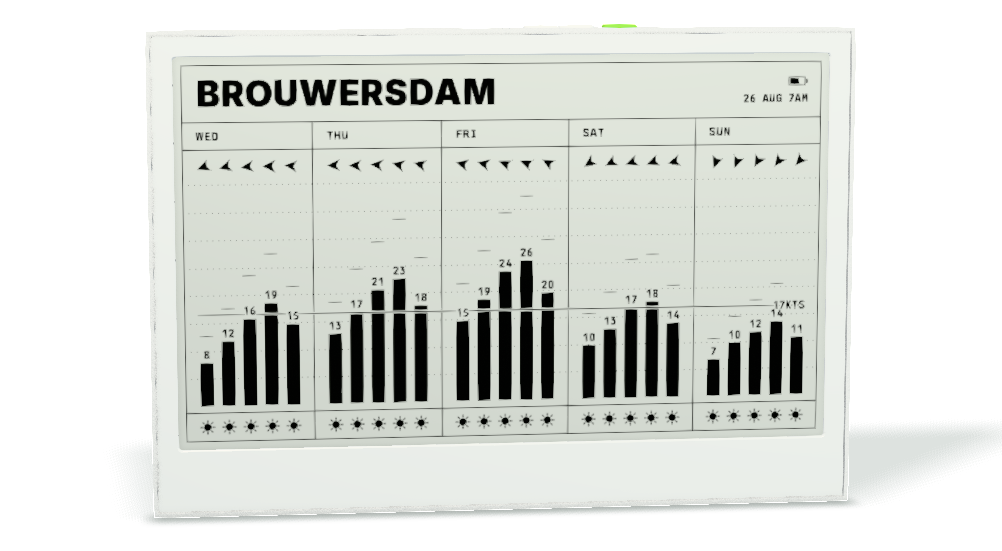
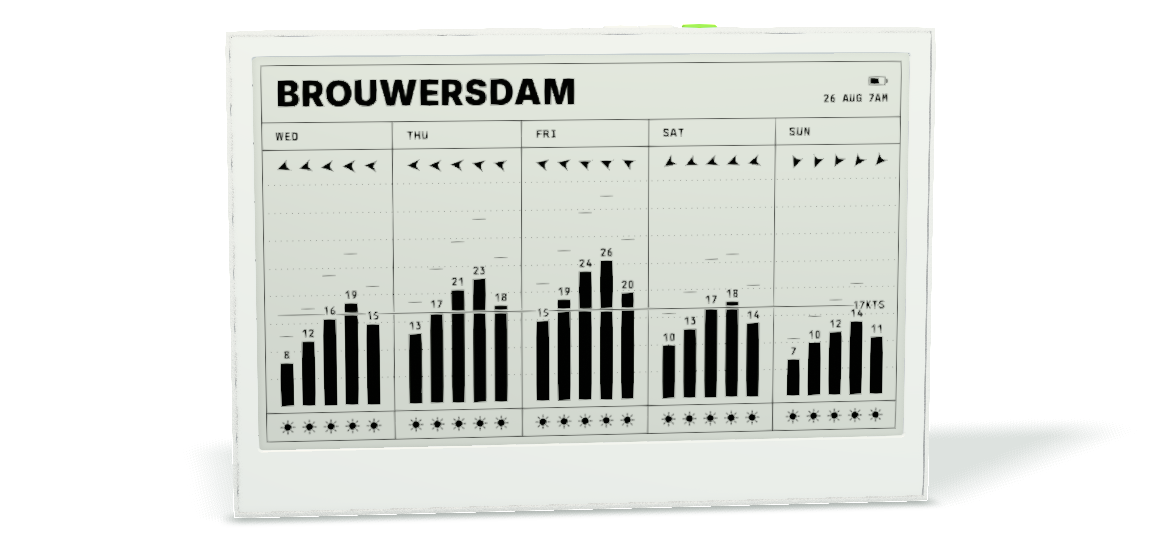
fix: harden E1001 installer safeguards (#6)
- reject known E1001/E1002 profile mismatches
- keep nested chooser dismissal from closing the installer
- strengthen firmware, crop, and installer regression coverage

diff --git a/web/tests/installer/installer-session.test.js b/web/tests/installer/installer-session.test.js
@@ -185,7 +185,9 @@ describe('installer session', () => {
 
     await session.connect()
 
-    const staged = protocol.request.mock.calls.find(([command]) => command === 'stage_configuration')[1]
+    const stagedCall = protocol.request.mock.calls.find(([command]) => command === 'stage_configuration')
+    expect(stagedCall).toBeDefined()
+    const staged = stagedCall[1]
     expect(staged.configuration.boardId).toBe(BOARD_IDS.E1002)
     expect(staged.configuration.digest).not.toBe(selectedConfiguration.digest)
     expect(session.getState().phase).toBe('complete')
@@ -202,6 +204,22 @@ describe('installer session', () => {
     await session.connect()
 
     expect(session.getState().phase).toBe('confirm-device')
+  })
+
+  it('blocks a known universal hardware profile that differs from the selected model', async () => {
+    const session = createInstallerSession({
+      configuration: e1001Configuration(),
+      requestPort: async () => ({}),
+      releaseLoader: async () => release,
+      protocolFactory: () => appProtocol({ hardwareModel: 'e1002' }),
+    })
+
+    await session.connect()
+
+    expect(session.getState()).toMatchObject({
+      phase: 'error',
+      error: { code: INSTALLER_ERROR_CODES.INCOMPATIBLE_DEVICE },
+    })
   })
 
   it('blocks an E1002 when the E1003 installer route is selected', async () => {

diff --git a/web/src/installer/createInstallerSession.js b/web/src/installer/createInstallerSession.js
@@ -319,13 +319,17 @@ export function createInstallerSession({
         await waitFor(SAVED_WIFI_CONNECT_RETRY_MS)
         current = await candidate.request('get_state')
       }
+      const usesHardwareProfile = hello.capabilities.includes('hardware-profile')
+      const reportedHardwareModel = usesHardwareProfile
+        ? ({ e1001: BOARD_IDS.E1001, e1002: BOARD_IDS.E1002 }[hello.hardwareModel])
+        : undefined
       return {
         protocol: candidate,
         device: {
           kind: 'windscout',
-          verifiedBoard: (hello.capabilities.includes('hardware-profile')
-            ? ({ e1001: BOARD_IDS.E1001, e1002: BOARD_IDS.E1002 }[hello.hardwareModel])
-            : hello.boardId) === expectedHardwareModel,
+          verifiedBoard: (usesHardwareProfile ? reportedHardwareModel : hello.boardId) === expectedHardwareModel,
+          hardwareModelMismatch: usesHardwareProfile && reportedHardwareModel !== undefined &&
+            reportedHardwareModel !== expectedHardwareModel,
           boardId: hello.boardId,
           hardwareModel: hello.hardwareModel,
           hardwareProfileRevision: hello.hardwareProfileRevision,

diff --git a/web/tests/installer/local-installer-build.test.js b/web/tests/installer/local-installer-build.test.js
@@ -96,11 +96,19 @@ describe('local installer firmware build', () => {
 
   it('ignores a model-specific build that cannot install E1001', () => {
     const { root, firmware } = fixture()
+    const sourceTime = new Date('2026-08-30T10:00:00Z')
+    utimesSync(path.join(firmware, 'main', 'windscout_main.c'), sourceTime, sourceTime)
+    const universal = build(
+      firmware,
+      'build-local',
+      'universal-dev',
+      new Date('2026-08-30T11:00:00Z'),
+    )
     build(firmware, 'build', 'e1003-only', new Date('2026-08-30T12:00:00Z'), {
       universal: false,
     })
 
-    expect(() => selectLocalFirmwareBuild(root)).toThrow(/E1001\/E1002/i)
+    expect(selectLocalFirmwareBuild(root)).toMatchObject({ buildDir: universal })
   })
 
   it('refuses a different build with the same embedded firmware version', () => {

diff --git a/web/tests/installer/action-resolver.test.js b/web/tests/installer/action-resolver.test.js
@@ -44,6 +44,7 @@ describe('installer action resolver', () => {
 
   it('blocks known different boards and chips', () => {
     expect(resolveInstallAction({ device: { ...current, boardId: 'seeedstudio_reterminal_e1001' }, release, configurationDigest: 'wanted' }).action).toBe(INSTALL_ACTIONS.BLOCKED)
+    expect(resolveInstallAction({ device: { ...current, hardwareModelMismatch: true }, release, configurationDigest: 'wanted' })).toEqual({ action: INSTALL_ACTIONS.BLOCKED, reason: 'different-windscout-model' })
     expect(resolveInstallAction({ device: { kind: 'rom', chipFamily: 'ESP32-C3' }, release, configurationDigest: 'wanted' }).action).toBe(INSTALL_ACTIONS.BLOCKED)
   })
 })

diff --git a/web/tests/installer/installer-panel.test.js b/web/tests/installer/installer-panel.test.js
@@ -104,6 +104,8 @@ describe('installer inspector panel', () => {
       expect(buyButton.element.nextElementSibling).toBe(wrapper.get('.installer-primary').element)
       await buyButton.trigger('click')
       expect(wrapper.findComponent(ReTerminalHelpDialog).props('open')).toBe(true)
+      wrapper.findComponent(ReTerminalHelpDialog).vm.$emit('update:open', false)
+      await wrapper.vm.$nextTick()
       expect(wrapper.get('.installer-primary').text()).toBe('Continue')
       await wrapper.get('.installer-primary').trigger('click')
       expect(session.connect).toHaveBeenCalledOnce()

diff --git a/web/src/installer/actionResolver.js b/web/src/installer/actionResolver.js
@@ -17,6 +17,9 @@ export function resolveInstallAction({
   if (!device || device.kind === 'unknown') {
     return { action: INSTALL_ACTIONS.BLOCKED, reason: 'device-not-recognized' }
   }
+  if (device.hardwareModelMismatch) {
+    return { action: INSTALL_ACTIONS.BLOCKED, reason: 'different-windscout-model' }
+  }
   if (device.boardId && device.boardId !== release.boardId) {
     return { action: INSTALL_ACTIONS.BLOCKED, reason: 'different-windscout-model' }
   }

diff --git a/web/src/components/installer/InstallerPanel.vue b/web/src/components/installer/InstallerPanel.vue
@@ -133,7 +133,8 @@ async function close() {
 
 function handleKeydown(event) {
   root.value?.querySelector('.is-initial-focus')?.classList.remove('is-initial-focus')
-  if (event.key === 'Escape' && reTerminalHelpOpen.value) return
+  if (event.key === 'Escape' &&
+      (reTerminalHelpOpen.value || event.target?.closest?.('[role="dialog"]'))) return
   if (event.key === 'Escape' && !critical.value) void close()
 }
 

diff --git a/firmware/host_tests/test_installer_service.cpp b/firmware/host_tests/test_installer_service.cpp
@@ -218,6 +218,7 @@ TEST(InstallerServiceTest, UnknownAndRecoveryProfilesBlockSetupMutations)
         auto service = make_service(&fake);
         service.dependencies.get_hardware_profile = get_hardware_profile;
         service.dependencies.scan_wifi = scan_wifi;
+        service.dependencies.begin_apply = begin_apply;
 
         EXPECT_NE(request(&service, R"({"command":"scan_networks"})")
                       .find("hardware_profile_required"), std::string::npos);
